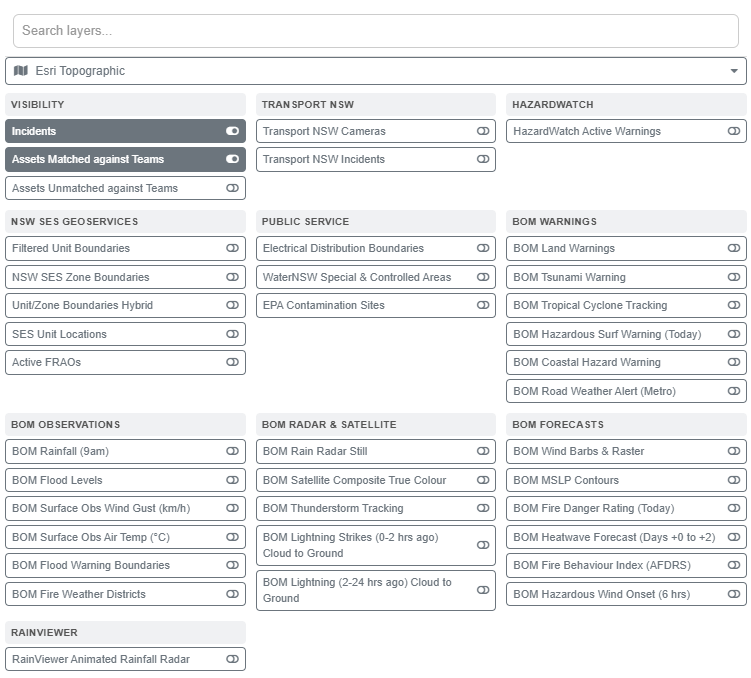
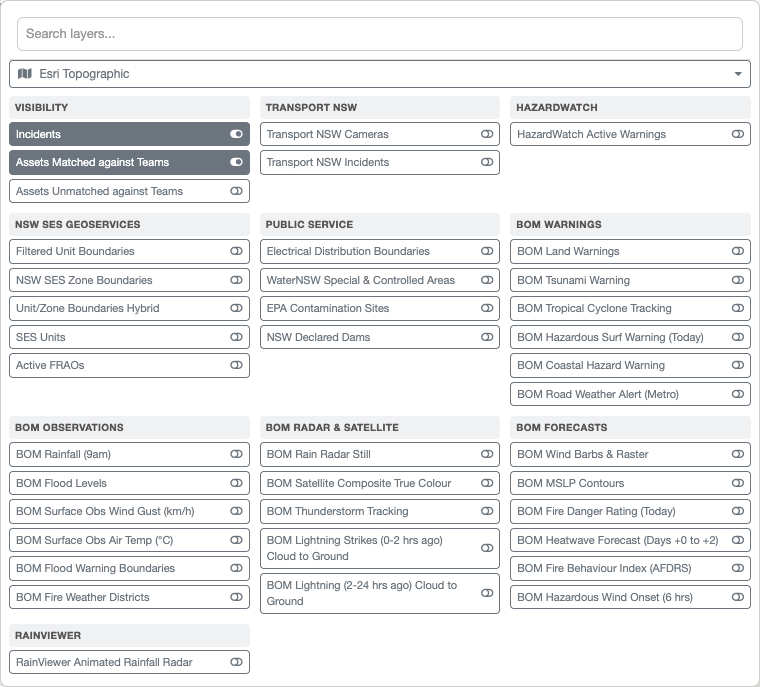
Sync preview docs from NSWSESMembers/Lighthouse@f6e1bc2 (master-dev)

Changed region(s): [[0.0, 0.0, 1.0, 1.0]]

diff --git a/preview/guides/lad/situation-map.md b/preview/guides/lad/situation-map.md
@@ -70,7 +70,7 @@ Some overlays drop their own markers on the map. Click one to open a popup with 
 | **Transport NSW Incidents** | Live Traffic icon (crash, hazard, breakdown, traffic lights out, changed conditions) | What happened, where, traffic advice, speed limit, start/end time and who is managing it |
 | **Transport NSW Cameras** | Camera icon | What the camera faces and its latest image (click the image to enlarge it) |
 | **HazardWatch Active Warnings** | Warning icon in the middle of each warning area | The full published warning. Clicking anywhere in the area also works |
-| **SES Unit Locations** | SES logo at each unit headquarters | Whether the unit is monitoring, its active teams and incidents, SRB accreditations and contacts |
+| **SES Units** | SES logo at each unit headquarters | The unit's status (Monitoring, Not Monitoring or Unavailable), its active teams and incidents, SRB accreditations and contacts |
 | **EPA Contamination Sites** | Red dot | Site name, address, activity type and management class |
 | **NSW Declared Dams** | Blue dot | Dam name, place, owner and declared status |
 
@@ -97,7 +97,7 @@ Most layers are described by their name. Those that need more explanation:
 - **Filtered Unit Boundaries**: a pink outline around your filtered headquarters.
 - **NSW SES Zone Boundaries**: SES zone boundaries.
 - **Unit/Zone Boundaries Hybrid**: SES zone and unit boundaries.
-- **SES Unit Locations**: the location of every SES unit headquarters.
+- **SES Units**: the location of every SES unit headquarters.
 - **Active FRAOs**: active FRAO declarations, from the Beacon FRAO register.
 
 **HazardWatch**

diff --git a/preview/whats-new/index.md b/preview/whats-new/index.md
@@ -26,6 +26,7 @@ The home page shows the first three `##` entries, so keep the title short.
 - **Call off a team from Spotlight.** Type `calloff` with a team and an incident, in either order, then press Enter and give a reason. Only taskings that can be called off are offered. See [Call Off command](/preview/guides/lad/spotlight.html#call-off-command--calloff).
 - **Spotlight help.** Click the **?** button in Spotlight, or type `?`, to see all the commands, what you can search for and the keyboard shortcuts. Click a command to start it. See [Spotlight](/preview/guides/lad/spotlight.html).
 - The Spotlight `radio` command now lists teams when you type the incident before the team.
+- The *SES Unit Locations* overlay is now called *SES Units*, and its popup has a cleaner layout. Long contact details no longer spill out of the popup, and the unit's status now shows correctly: it always said *Not Monitoring* before. Units with a hyphen in their name, such as Waverley-Woollahra, now load their details. See [Overlays](/preview/guides/lad/situation-map.html#overlays).
 
 ## LAD radio logs with status changes
 
